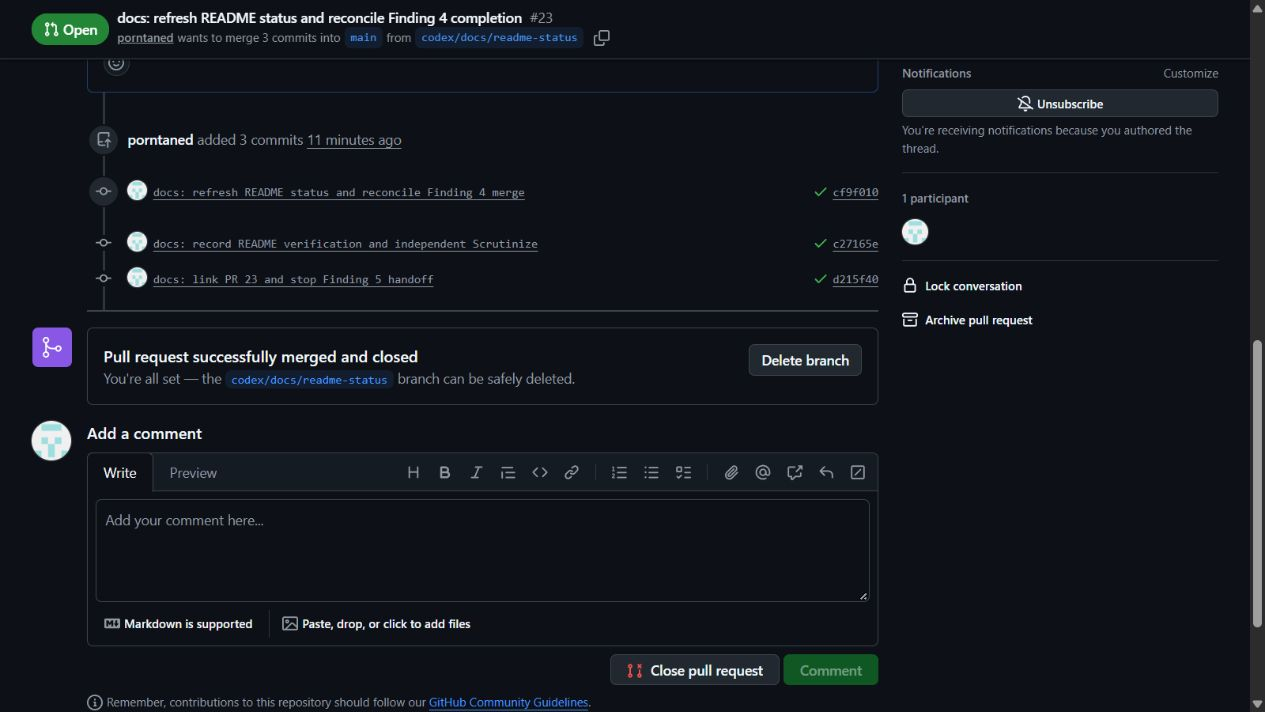
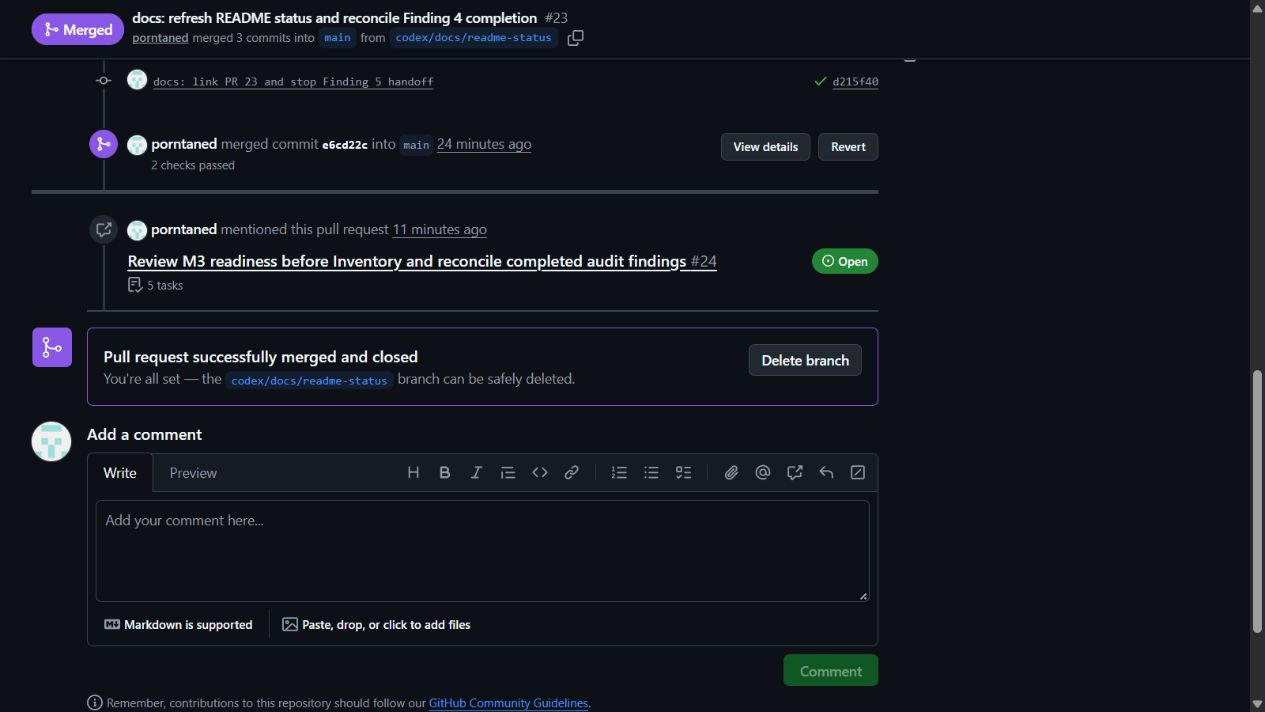
docs: preserve literal CI globs and refresh merge proof

diff --git a/docs/evidence/issue-24-m3-readiness.md b/docs/evidence/issue-24-m3-readiness.md
@@ -129,7 +129,7 @@ this is not a claim that a test count proves absence of every possible future de
 | 1 — persisted deactivation | Both policies query persisted active User state; [stale-instance/deferred tests](../../tests/access_control/test_persisted_deactivation.py) retained. | `abe63e154de62e7d37f3ff4c47252f6a88c07587`; [evidence](issue-13-policy-deactivation.md), [review ship](../reviews/issue-13-policy-deactivation-independent-review.md), full 264 passed historically. | [Issue #13](https://github.com/porntaned/ERP-for-Factory/issues/13), [PR #14](https://github.com/porntaned/ERP-for-Factory/pull/14), merge `eba63622495c6b065ad0abcd8e652676f9189d20` |
 | 2 — unsaved colliding User PK | Shared helper rejects adding-state User; both interfaces have [six focused cases](../../tests/access_control/test_unsaved_user_policy.py), saved positive controls and retained Finding 1 checks. | `d132237211c5abdc509679da91b7b12566dff38c`; [evidence](issue-15-unsaved-user-policy.md), [review ship](../reviews/issue-15-unsaved-user-policy-independent-review.md), full 270 passed historically. | [Issue #15](https://github.com/porntaned/ERP-for-Factory/issues/15), [PR #16](https://github.com/porntaned/ERP-for-Factory/pull/16), merge `c62687b7ed60515de9424e69fe22ef43bbdfe81e` |
 | 3 — supplied event ID | [Four ORM/SQL explicit-ID cases](../../tests/quality/test_event_identity.py) preserve release/HOLD/retry; [migration tests](../../tests/quality/test_event_identity_migration.py) cover legacy/empty sequence modes, reverse/reapply and exhaustion rollback. | `1c19981778b2f1cd45279de1b30945523d5827e0`; [evidence](issue-18-event-identity.md), [review ship](../reviews/issue-18-event-identity-independent-review.md), targeted 11/full 281 passed historically. | [Issue #18](https://github.com/porntaned/ERP-for-Factory/issues/18), [PR #19](https://github.com/porntaned/ERP-for-Factory/pull/19), merge `95d612bc41b4bda184598ba30f7072c4896f976d` |
-| 4 — branch whitelist | [Workflow](../../.github/workflows/foundation.yml) selects main/codex/**/feat/** pushes and PRs to main; real nested-prefix/PR/main events recorded. | `56a0d80f05250751b3e5025b1c28ec5f6137d60c`; [evidence](issue-20-ci-triggers.md), [review ship](../reviews/issue-20-ci-triggers-independent-review.md). | [Issue #20](https://github.com/porntaned/ERP-for-Factory/issues/20), [PR #21](https://github.com/porntaned/ERP-for-Factory/pull/21), merge `a294080133cc31ee6ce0b0e1fc808280d669f203` |
+| 4 — branch whitelist | [Workflow](../../.github/workflows/foundation.yml) selects `main`, `codex/**`, `feat/**` pushes and PRs to main; real nested-prefix/PR/main events recorded. | `56a0d80f05250751b3e5025b1c28ec5f6137d60c`; [evidence](issue-20-ci-triggers.md), [review ship](../reviews/issue-20-ci-triggers-independent-review.md). | [Issue #20](https://github.com/porntaned/ERP-for-Factory/issues/20), [PR #21](https://github.com/porntaned/ERP-for-Factory/pull/21), merge `a294080133cc31ee6ce0b0e1fc808280d669f203` |
 | 5 — README status | [README](../../README.md) is dated, links actual milestones/main evidence and retains unfinished scope. | `cf9f010d212261ddc2e2c8a23bc60dfdc18ebf7b`; [evidence](issue-22-readme-status.md#owner-authorized-merge), [review ship](../reviews/issue-22-readme-status-independent-review.md); Markdown/render checks recorded. | [Issue #22](https://github.com/porntaned/ERP-for-Factory/issues/22), [PR #23](https://github.com/porntaned/ERP-for-Factory/pull/23), merge `e6cd22c9bddd533b40d293dbad509076ae41172c` |
 
 ## Current exact-main verification
